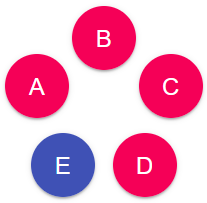
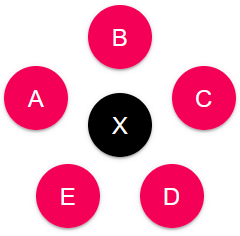
Update version number in package.json. Updated button group image in landing page.

diff --git a/TODO.md b/TODO.md
@@ -1,7 +1,4 @@
 # TODO
-- ABX
-- Email: ABX, tag stats
-- Circular button pattern picture in landing page with ABX
 - Multi submission stats
 - Keyboard shortcuts
 - Clickable audio progress bar 
